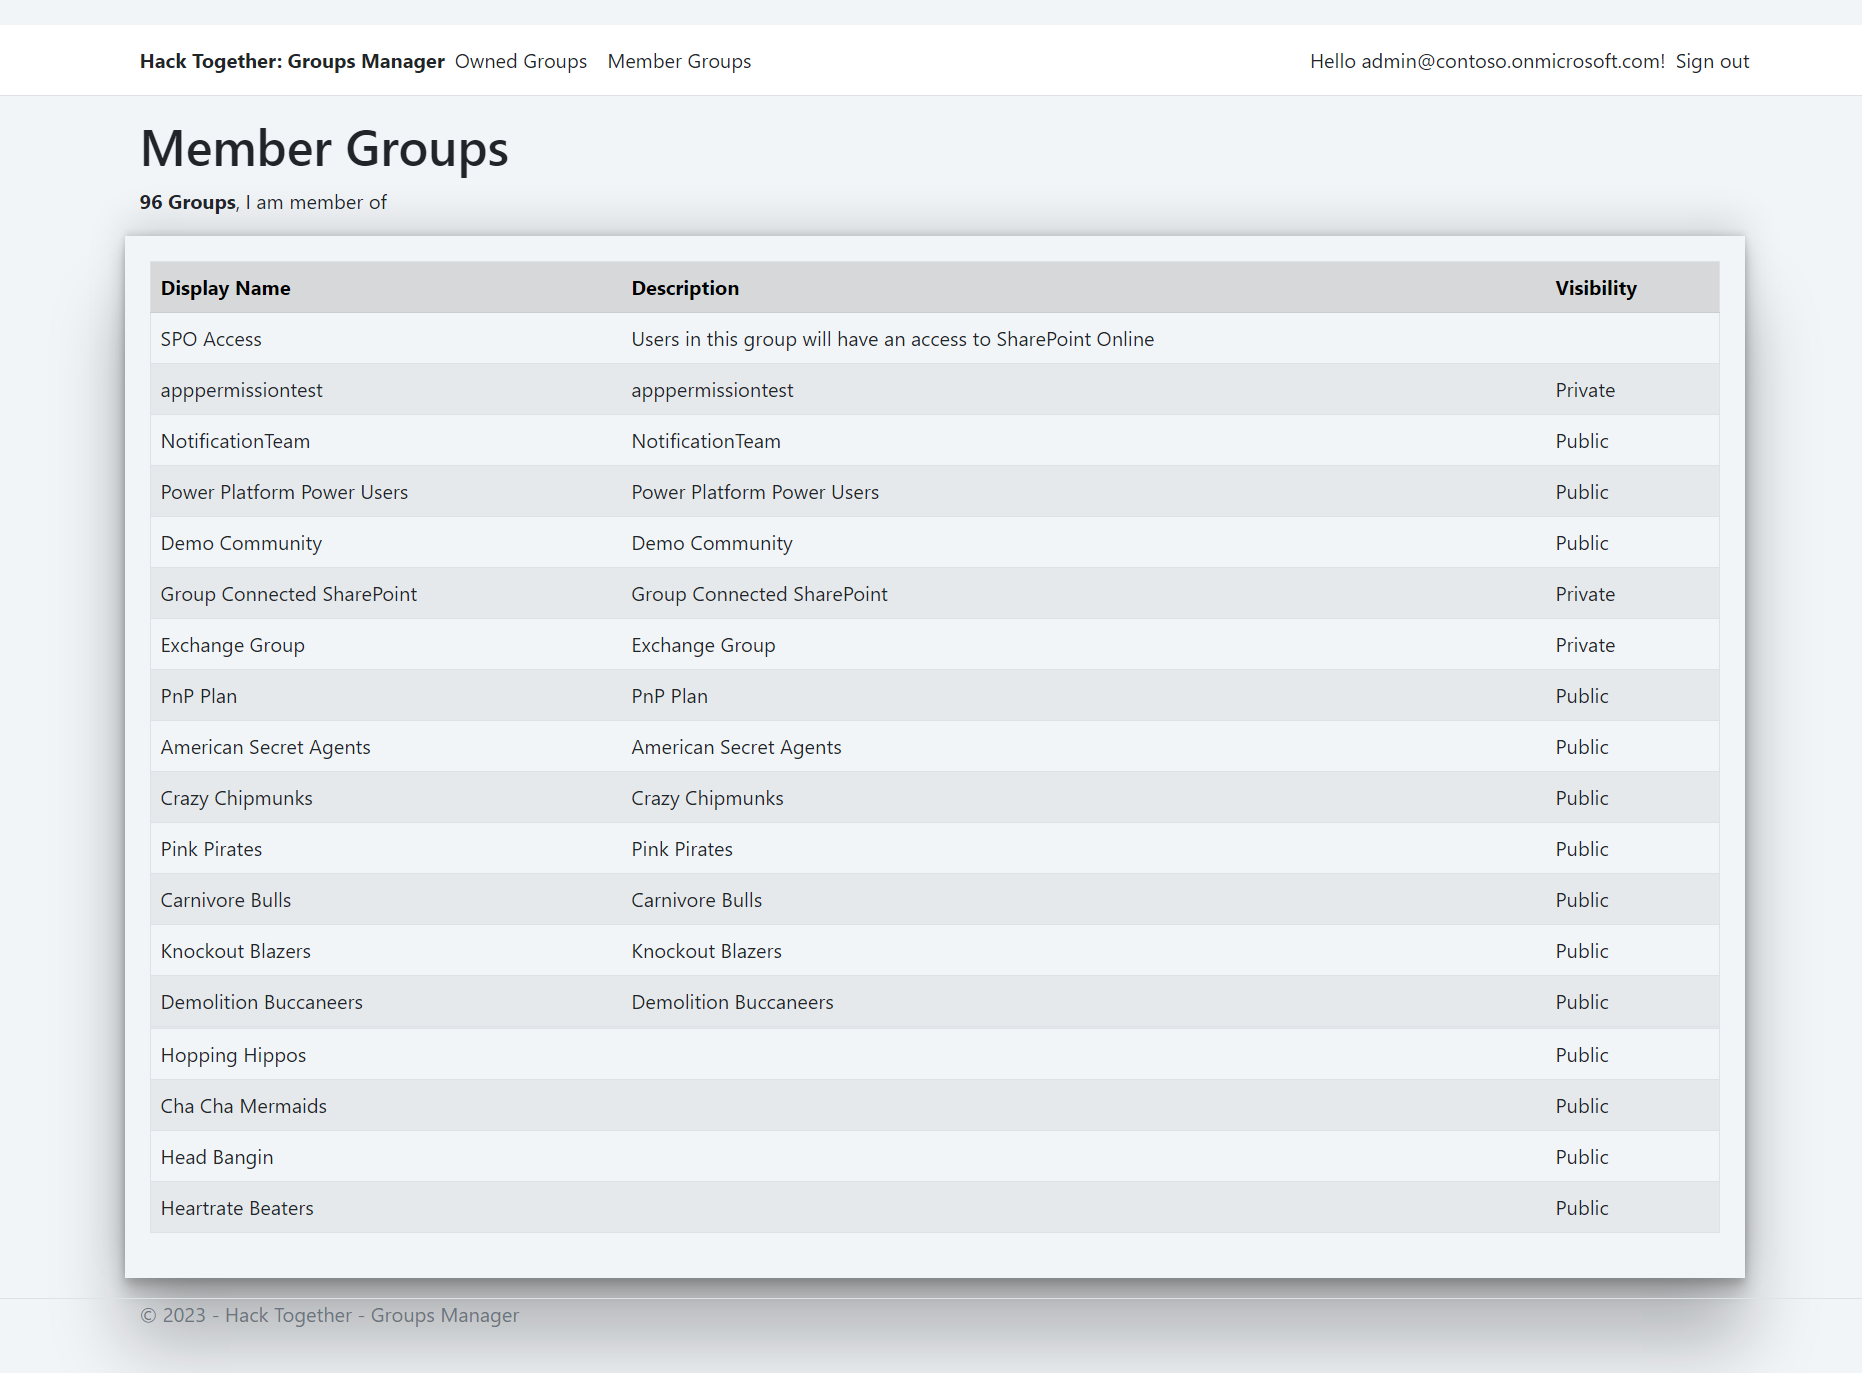
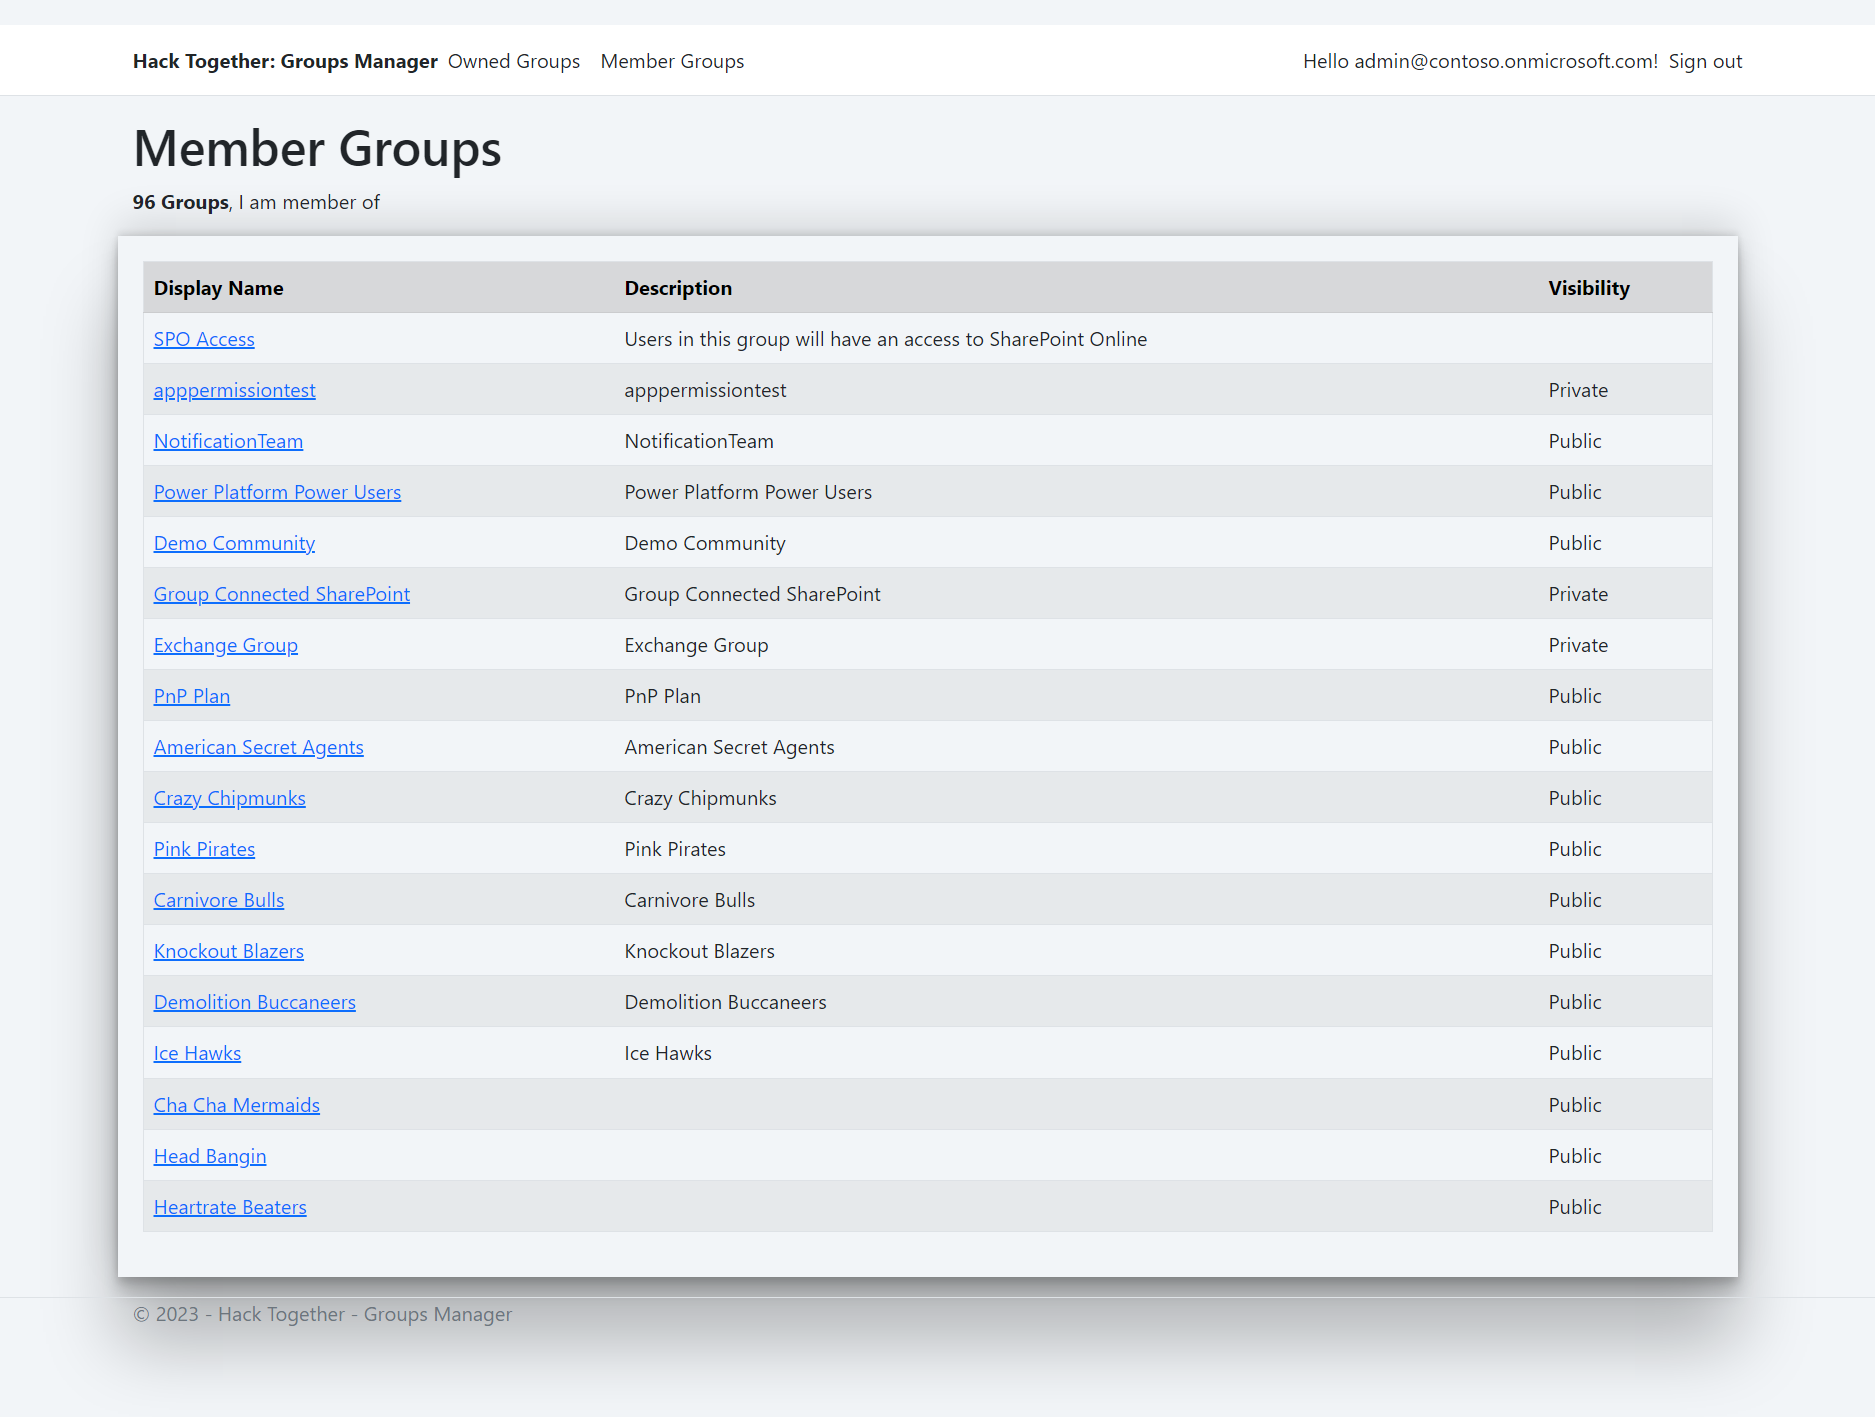
Added group details

diff --git a/Pages/GroupDetails.cshtml.cs b/Pages/GroupDetails.cshtml.cs
@@ -1,12 +1,62 @@
 using Microsoft.AspNetCore.Mvc;
 using Microsoft.AspNetCore.Mvc.RazorPages;
+using Microsoft.AspNetCore.Mvc.Rendering;
+using Microsoft.Graph;
+using System.Diagnostics.Metrics;
 
 namespace hack_together_groups_manager.Pages
 {
     public class GroupDetailsModel : PageModel
     {
-        public void OnGet()
+        private readonly ILogger<IndexModel> _logger;
+        private readonly GraphServiceClient _graphServiceClient;
+        public Models.M365Group M365GroupDetails { get; set; }
+
+        public GroupDetailsModel(ILogger<IndexModel> logger, GraphServiceClient graphServiceClient)
         {
+            _logger = logger;
+            _graphServiceClient = graphServiceClient;
+        }
+
+        public async Task OnGetAsync()
+        {
+            string groupId = HttpContext.Request.Query["groupId"];
+            var  groupInfo = new Models.M365Group();
+
+            if (groupId != null)
+            {
+                var resultGroupInfo = await this._graphServiceClient.Groups[groupId].Request().GetAsync();
+                if (resultGroupInfo != null)
+                {
+                    var group = resultGroupInfo as Microsoft.Graph.Group;
+
+                    groupInfo.Description = group.Description;
+                    groupInfo.DisplayName = group.DisplayName;
+                    groupInfo.Visibility = group.Visibility;
+                }
+
+                var resultMembersInfo = await this._graphServiceClient.Groups[groupId].Members.Request().GetAsync();
+                if (resultMembersInfo != null)
+                {
+                    groupInfo.Members = new List<string>();
+                    foreach (var member in resultMembersInfo)
+                    {
+                        groupInfo.Members.Add((member as Microsoft.Graph.User).UserPrincipalName);
+                    }
+                }
+
+                var resultOwnersInfo = await this._graphServiceClient.Groups[groupId].Owners.Request().GetAsync();
+                if (resultOwnersInfo != null)
+                {
+                    groupInfo.Owners = new List<string>();
+                    foreach (var owner in resultOwnersInfo)
+                    {
+                        groupInfo.Owners.Add((owner as Microsoft.Graph.User).UserPrincipalName);
+                    }
+                }
+            }
+
+            M365GroupDetails = groupInfo;
         }
     }
 }

diff --git a/Models/M365Group.cs b/Models/M365Group.cs
@@ -6,9 +6,8 @@
         public string? DisplayName { get; set; }
         public string? Description { get; set; }
         public string? Visibility { get; set; }
-        public string? Url { get; set; }
-        public string? Thumbnail { get; set; }
-        public string? UserRole { get; set; }
-        public bool TeamsConnected { get; set; }
+
+        public List<string>? Owners { get; set; }
+        public List<string>? Members { get; set; }
     }
 }

diff --git a/Pages/Index.cshtml.cs b/Pages/Index.cshtml.cs
@@ -42,14 +42,5 @@ namespace hack_together_groups_manager.Pages
 
             M365Groups = m365Groups;
         }
-        public ActionResult GroupDetails(string Id)
-        {
-            return RedirectToAction("GroupDetails");
-        }
-
-        public ActionResult Edit(string Id)
-        {
-            return RedirectToAction("GroupDetails");
-        }
     }
 }

diff --git a/README.md b/README.md
@@ -20,6 +20,10 @@ Member Groups page showing the M365 groups, an user is member of:
 
 ![Member Groups](./assets/member-groups.png)
 
+Clicking the Group name will display additional information of the Group.
+
+![Group Details](./assets/group-details.png)
+
 ## Minimal path to awesome
 
 Follow below steps to use this app:
